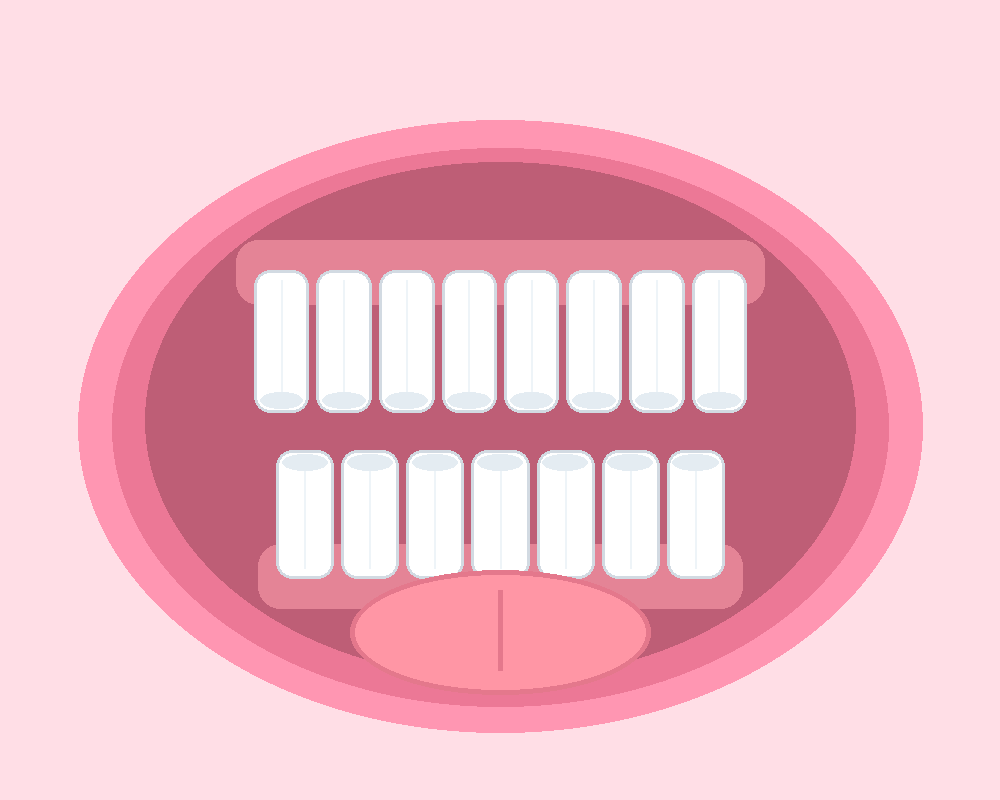
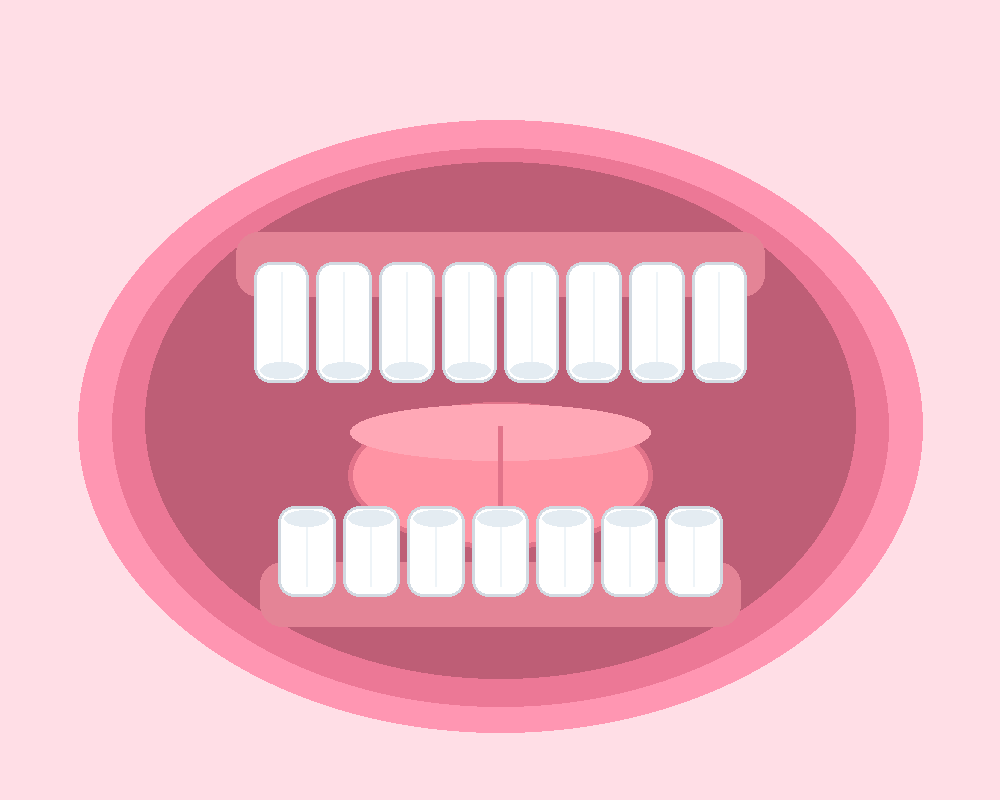
Dr Smile: fix mouth anatomy — tongue between the jaws
The tongue sat below the lower teeth, which looked wrong. It now rests
in the middle of the open mouth, between the two jaws, with its base
tucked behind the lower teeth (drawn in front of it). Spot zone retuned
to stay on the upper teeth. Bumped assets to v3 (mouth.png changed).

Verified headless: close-up cure loop + star + celebrate, 0 page errors.

Claude-Session: https://claude.ai/code/session_011RrvmojQw9rqFGhj42Bx1o

diff --git a/index.html b/index.html
@@ -11,10 +11,10 @@
   <meta name="apple-mobile-web-app-status-bar-style" content="black-translucent" />
   <meta name="apple-mobile-web-app-title" content="Dr Smile" />
   <title>Dr Smile</title>
-  <link rel="manifest" href="manifest.webmanifest?v=v2" />
-  <link rel="icon" type="image/png" href="assets/favicon.png?v=v2" />
-  <link rel="apple-touch-icon" href="assets/apple-touch-icon.png?v=v2" />
-  <link rel="stylesheet" href="style.css?v=v2" />
+  <link rel="manifest" href="manifest.webmanifest?v=v3" />
+  <link rel="icon" type="image/png" href="assets/favicon.png?v=v3" />
+  <link rel="apple-touch-icon" href="assets/apple-touch-icon.png?v=v3" />
+  <link rel="stylesheet" href="style.css?v=v3" />
 </head>
 <body>
   <!-- Home -->
@@ -87,8 +87,8 @@
   <!-- Night veil ("rest" transition), fullscreen -->
   <div id="night-veil"></div>
 
-  <script src="vendor/phaser.min.js?v=v2"></script>
-  <script src="game.config.js?v=v2"></script>
-  <script src="engine.js?v=v2"></script>
+  <script src="vendor/phaser.min.js?v=v3"></script>
+  <script src="game.config.js?v=v3"></script>
+  <script src="engine.js?v=v3"></script>
 </body>
 </html>

diff --git a/game.config.js b/game.config.js
@@ -26,7 +26,7 @@ window.GAME = {
     tagline: "Brosse les dents et rends tout le monde heureux !",
     saveKey: "dr-smile",
     audience: { minAge: 6, notes: "young kids (6–7), gentle, cute, no stress, no fear, no pain/blood/scary tools, minimal text" },
-    assetVersion: "v2",
+    assetVersion: "v3",
     theme: { home: "#ffe0e9", play: "#eaf6f2" },
 
     showCoins: true,
@@ -114,7 +114,7 @@ window.GAME = {
           bg: "mouth", spotSprite: "spot", brush: "brush",
           // spots ramp up as the child cures more patients (the progression)
           spots: { base: 4, growEvery: 2, max: 8, rubs: 3, size: 64,
-                   area: { x: 0.30, y: 0.355, w: 0.40, h: 0.12 } },   // upper teeth only
+                   area: { x: 0.30, y: 0.375, w: 0.40, h: 0.09 } },   // upper teeth only
           finishParticles: ["⭐", "💖", "✨", "🌟", "😄"],
         },
         effects: { propre: 100, sourire: 100 }, reward: 1, stat: "smile",

diff --git a/tools/gen_closeup.py b/tools/gen_closeup.py
@@ -45,13 +45,16 @@ def mouth():
             else:
                 d.ellipse((bx+10, y0+4, bx+w-10, y0+20), fill=tshade)
 
-    # upper + lower rows; a dark gap at the centre reads as the open mouth
-    teeth_row(cy-150, cy-8, 8, 250, upper=True)
-    teeth_row(cy+30, cy+158, 7, 228, upper=False)
+    # Anatomy: upper teeth (top), then the TONGUE in the middle of the mouth, then the
+    # lower teeth drawn IN FRONT of the tongue's base (the tongue tucks behind them).
+    teeth_row(cy-158, cy-38, 8, 250, upper=True)
 
-    # tongue peeking below the lower teeth
-    d.ellipse((cx-150, cy+150, cx+150, cy+274), fill=(255, 150, 165, 255), outline=(228, 120, 140, 255), width=5)
-    d.line((cx, cy+170, cx, cy+250), fill=(228, 120, 140, 255), width=5)
+    # tongue resting in the middle, between the two jaws
+    d.ellipse((cx-152, cy-18, cx+152, cy+128), fill=(255, 148, 164, 255), outline=(226, 116, 138, 255), width=5)
+    d.ellipse((cx-150, cy-16, cx+150, cy+40), fill=(255, 168, 182, 255))   # soft highlight on top
+    d.line((cx, cy+6, cx, cy+104), fill=(226, 116, 138, 255), width=5)
+
+    teeth_row(cy+86, cy+176, 7, 226, upper=False)
 
     im.save(OUT + "/img/mouth.png")
 